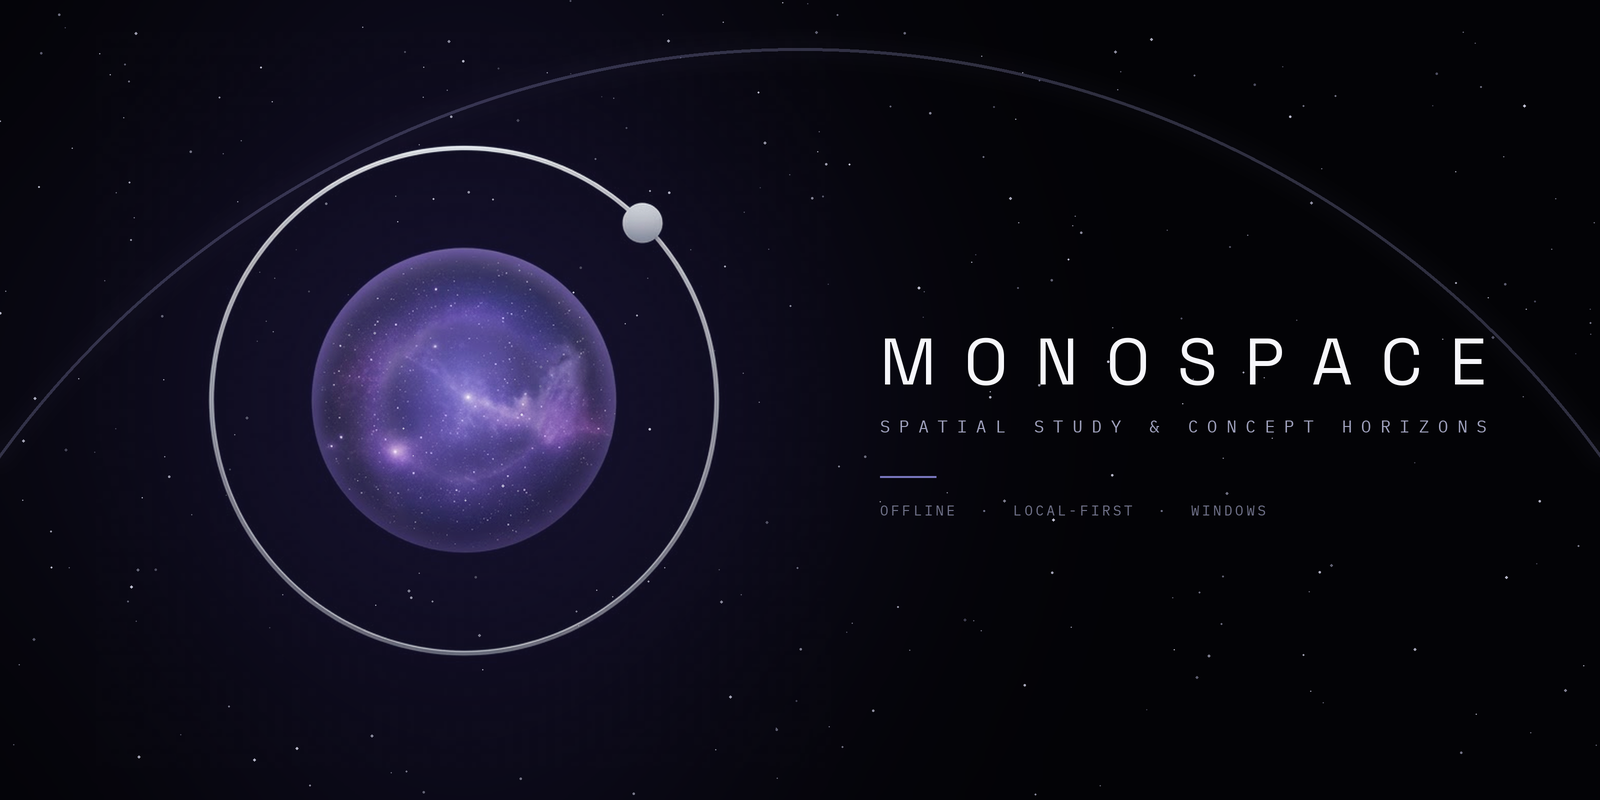
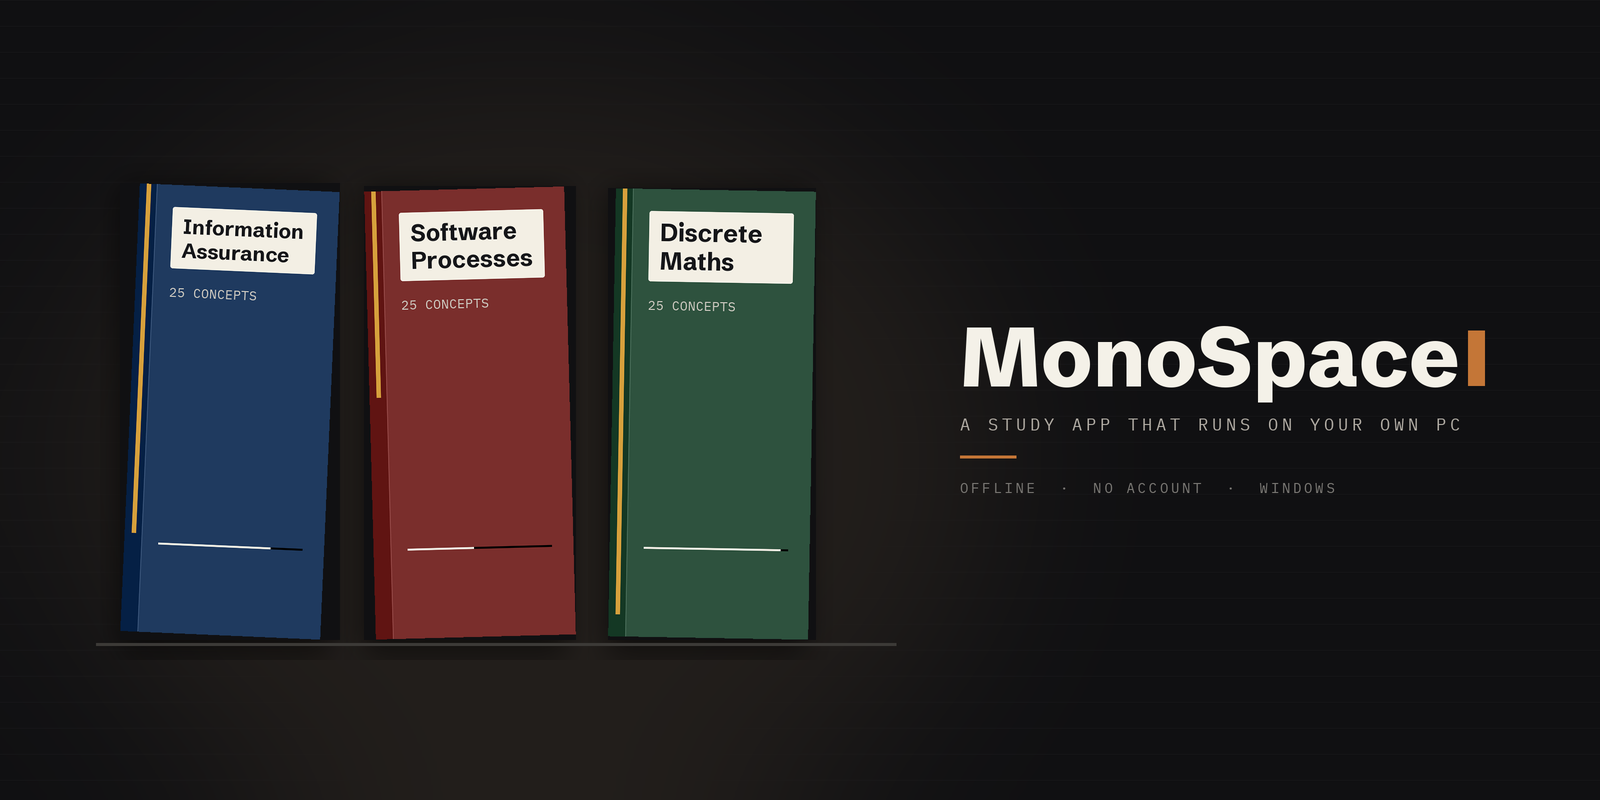
README cover: the MonoSpace look (notebooks on a shelf, the wordmark and cursor), not the old orb

diff --git a/packaging/make_icon.py b/packaging/make_icon.py
@@ -8,7 +8,7 @@ Writes:
   assets/monospace.png          512 px, same artwork as the icon
   app/vendor/brand/logo-128.png the orb + ring on a transparent background (served by the app)
   app/vendor/brand/logo-512.png
-  assets/cover.png              1600x800 README cover (orb, wordmark, tagline; splash style)
+  assets/cover.png              1600x800 README cover (notebooks, wordmark, tagline)
 
 Sizes up to 64 px are not plain downscales: the source ring is ~4 px wide at 1024, which vanishes
 when shrunk. They use a tighter crop (16-32 px), a slightly brightened orb, and a ring and moon
@@ -131,62 +131,117 @@ def tracked_width(text: str, f, track: float) -> float:
     return sum(f.getlength(ch) for ch in text) + track * (len(text) - 1)
 
 
+def notebook(w: int, h: int, cloth, label: str, ribbon: float) -> Image.Image:
+    """One notebook cover: cloth, a dark spine, a paper label, and the bookmark ribbon."""
+    im = Image.new("RGB", (w, h), cloth)
+    d = ImageDraw.Draw(im)
+    d.rectangle((0, 0, int(w * .085), h), fill=tuple(max(0, c - 26) for c in cloth))
+    d.line((int(w * .085), 0, int(w * .085), h), fill=tuple(min(255, c + 24) for c in cloth), width=2)
+    # the bookmark ribbon, as long as the deck is known
+    rx = int(w * .035)
+    d.rectangle((rx, 0, rx + int(w * .022), int(h * ribbon)), fill=(214, 160, 60))
+    # the paper label: the type is fitted to it, never spilling over the edge
+    m = int(w * .11)
+    lx0, ly0, lx1 = int(w * .17), m, w - m
+    pad = int(w * .055)
+    lines = label.split(chr(10))
+    size = max(11, int(h * .055))
+    while size > 9:
+        fl = font("schibstedgrotesk-400-800-n-latin.woff2", size, 700)
+        if max(fl.getlength(t) for t in lines) <= (lx1 - lx0) - 2 * pad:
+            break
+        size -= 1
+    step = int(size * 1.18)
+    ly1 = ly0 + int(pad * .7) + step * len(lines) + int(pad * .5)
+    d.rounded_rectangle((lx0, ly0, lx1, ly1), radius=4, fill=(243, 239, 228))
+    for i, t in enumerate(lines):
+        d.text((lx0 + pad, ly0 + int(pad * .55) + i * step), t, font=fl, fill=(22, 23, 26))
+    fm = font("ibmplexmono-400-latin.woff2", max(8, int(h * .030)))
+    d.text((lx0, ly1 + int(h * .035)), "25 CONCEPTS", font=fm, fill=(206, 202, 193))
+    # the progress rule near the foot
+    d.rectangle((int(w * .17), int(h * .80), w - m, int(h * .80) + 3), fill=(0, 0, 0))
+    d.rectangle((int(w * .17), int(h * .80), int(w * .17) + int((w - m - w * .17) * ribbon),
+                 int(h * .80) + 3), fill=(236, 233, 224))
+    return im
+
+
 def cover(src: Image.Image) -> Image.Image:
+    """The README cover: the MonoSpace look itself — ink, paper, notebooks on a shelf.
+
+    Rewritten 2026-10-06 for 2.0. It used to be the purple orb from the first branding; the app
+    has been the M-and-cursor wordmark on ink since the redesign, and the cover said otherwise.
+    """
     W, H, S = 1600, 800, 2                               # drawn at 2x, downscaled
     w, h = W * S, H * S
-    bg = Image.new("RGB", (w, h), (3, 3, 6))
-    # soft indigo glow behind the orb, and a vignette
+    INK, PAPER, ACCENT, MUTED = (16, 16, 18), (244, 241, 232), (196, 118, 55), (122, 120, 116)
+    bg = Image.new("RGB", (w, h), INK)
+    d = ImageDraw.Draw(bg)
+    # faint ruled paper, the app's own background
+    for y in range(0, h, 26 * S):
+        d.line((0, y, w, y), fill=(24, 24, 27), width=1)
+    # a warm pool of light behind the notebooks
     glow = Image.new("L", (w, h), 0)
-    ox, oy = int(w * .29), int(h * .5)
-    ImageDraw.Draw(glow).ellipse((ox - 700, oy - 700, ox + 700, oy + 700), fill=255)
-    glow = glow.filter(ImageFilter.GaussianBlur(320))
-    bg = Image.composite(Image.new("RGB", (w, h), (22, 18, 48)), bg, glow)
+    ImageDraw.Draw(glow).ellipse((int(w * .04), int(h * .10), int(w * .62), int(h * 1.05)), fill=255)
+    bg = Image.composite(Image.new("RGB", (w, h), (34, 30, 27)), bg,
+                         glow.filter(ImageFilter.GaussianBlur(170)))
     d = ImageDraw.Draw(bg)
-    rnd = random.Random(7)
-    for _ in range(300):                                 # starfield
-        x, y = rnd.random() * w, rnd.random() * h
-        r = rnd.choice([1, 1, 1, 1.5, 2, 2.5])
-        v = rnd.randint(60, 190)
-        d.ellipse((x - r, y - r, x + r, y + r), fill=(v, v, min(255, v + 18)))
-    # the faint horizon arc
-    arc = Image.new("L", (w, h), 0)
-    R = w * .62
-    acx, acy = w * .5, R + h * .06
-    ImageDraw.Draw(arc).ellipse((acx - R, acy - R, acx + R, acy + R), outline=255, width=3 * S)
-    arc_glow = arc.filter(ImageFilter.GaussianBlur(10 * S))
-    bg = Image.composite(Image.new("RGB", (w, h), (150, 150, 200)), bg,
-                         ImageChops.add(arc.point(lambda v: v * 70 // 255),
-                                        arc_glow.point(lambda v: v * 60 // 255)))
-    # the orb (screen-blended so the stars stay visible around it)
-    orb = crop(src, 0.70).resize((int(h * .92), int(h * .92)), Image.LANCZOS)
-    layer = Image.new("RGB", (w, h), (0, 0, 0))
-    layer.paste(orb, (ox - orb.width // 2, oy - orb.height // 2))
-    bg = ImageChops.screen(bg, layer)
-    # wordmark + tagline
+
+    # three notebooks standing on a shelf, the way the Library draws them
+    cloths = [(31, 58, 95), (122, 46, 44), (46, 82, 62)]
+    labels = ["Information\nAssurance", "Software\nProcesses", "Discrete\nMaths"]
+    ribbons = [.78, .46, .95]
+    nw, nh = int(w * .125), int(h * .56)
+    x, base = int(w * .075), int(h * .80)
+    for i, (cloth, label, rb) in enumerate(zip(cloths, labels, ribbons)):
+        nb = notebook(nw, nh, cloth, label, rb)
+        tilt = (-2.5, 1.5, -1.0)[i]
+        nb = nb.rotate(tilt, Image.BICUBIC, expand=True, fillcolor=INK)
+        sh = Image.new("L", (nb.width + 40 * S, nb.height + 40 * S), 0)
+        ImageDraw.Draw(sh).rectangle((20 * S, 24 * S, nb.width + 10 * S, nb.height + 30 * S), fill=150)
+        sh = sh.filter(ImageFilter.GaussianBlur(14 * S))
+        bg.paste(Image.new("RGB", sh.size, (0, 0, 0)), (x - 20 * S, base - nb.height - 20 * S), sh)
+        bg.paste(nb, (x, base - nb.height))
+        x += int(nw * 1.22)
     d = ImageDraw.Draw(bg)
-    title = "MONOSPACE"
-    tx = int(w * .55)
-    probe = font("spacegrotesk-var-latin.woff2", 100, 400)       # fit the wordmark to 38% of W
-    size = round(100 * (w * .38) / tracked_width(title, probe, 42))
-    ft = font("spacegrotesk-var-latin.woff2", size, 400)
-    tw = tracked_width(title, ft, .42 * size)
-    ty = h * .40
-    tracked(d, tx, ty, title, ft, .42 * size, (246, 246, 250))
-    sub = "SPATIAL STUDY & CONCEPT HORIZONS"
-    fs = font("ibmplexmono-400-latin.woff2", 17 * S)
-    track_s = (tw - sum(fs.getlength(c) for c in sub)) / (len(sub) - 1)   # same width as title
-    tracked(d, tx, ty + size * 1.45, sub, fs, track_s, (160, 162, 190))
-    d.line((tx, ty + size * 1.45 + 62 * S, tx + 56 * S, ty + size * 1.45 + 62 * S),
-           fill=(120, 118, 190), width=2 * S)
-    fl = font("ibmplexmono-400-latin.woff2", 14 * S)
-    tracked(d, tx, ty + size * 1.45 + 86 * S, "OFFLINE  ·  LOCAL-FIRST  ·  WINDOWS", fl,
-            2.6 * S, (112, 114, 138))
+    d.line((int(w * .06), base + 4 * S, int(w * .56), base + 4 * S), fill=(60, 58, 55), width=3 * S)
+
+    # the wordmark: MonoSpace and the accent cursor, as the app's header draws it.
+    # Sized to the column it has, so neither the word nor the cursor can run off the edge.
+    tx = int(w * .60)
+    room = int(w * .93) - tx
+    size = int(h * .135)
+    while size > 20:
+        ft = font("schibstedgrotesk-400-800-n-latin.woff2", size, 800)
+        if ft.getlength("MonoSpace") + size * .30 <= room:
+            break
+        size -= 2
+    ty = int(h * .38)
+    d.text((tx, ty), "MonoSpace", font=ft, fill=PAPER)
+    tw = ft.getlength("MonoSpace")
+    cw, ch = int(size * .20), int(size * .66)
+    d.rectangle((tx + tw + int(size * .10), ty + int(size * .32),
+                 tx + tw + int(size * .10) + cw, ty + int(size * .32) + ch), fill=ACCENT)
+
+    line = "A STUDY APP THAT RUNS ON YOUR OWN PC"
+    fsize = int(17 * S)
+    while fsize > 9 and sum(font("ibmplexmono-400-latin.woff2", fsize).getlength(c) for c in line) > tw:
+        fsize -= 1
+    fs = font("ibmplexmono-400-latin.woff2", fsize)
+    track_s = max(0.0, (tw - sum(fs.getlength(c) for c in line)) / (len(line) - 1))
+    base_y = ty + int(size * 1.30)
+    tracked(d, tx, base_y, line, fs, track_s, (176, 171, 163))
+    d.line((tx, base_y + int(size * .52), tx + 56 * S, base_y + int(size * .52)), fill=ACCENT, width=3 * S)
+    foot = "OFFLINE  ·  NO ACCOUNT  ·  WINDOWS"
+    fl = font("ibmplexmono-400-latin.woff2", int(14 * S))
+    while sum(fl.getlength(c) for c in foot) + 2.6 * S * (len(foot) - 1) > tw and fl.size > 8:
+        fl = font("ibmplexmono-400-latin.woff2", fl.size - 1)
+    tracked(d, tx, base_y + int(size * .78), foot, fl, 2.6 * S, MUTED)
     return bg.resize((W, H), Image.LANCZOS)
 
 
 # ---- the app icon (2026-10-06): "M" and the accent cursor, matching the header logo ----------
 # Drawn as shapes on a 32-unit grid (the header's wordmark + caret, as a monogram), supersampled,
-# so every size is crisp. The orb artwork above still makes the README cover and logo-*.png.
+# so every size is crisp. The orb artwork still makes logo-*.png (the loading screen).
 ICON_TILE = (27, 25, 22)          # warm near-black (the paper theme's ink)
 ICON_M = (244, 239, 230)          # paper
 ICON_CARET = (196, 118, 55)       # the accent, a touch lighter so it reads on the dark tile
